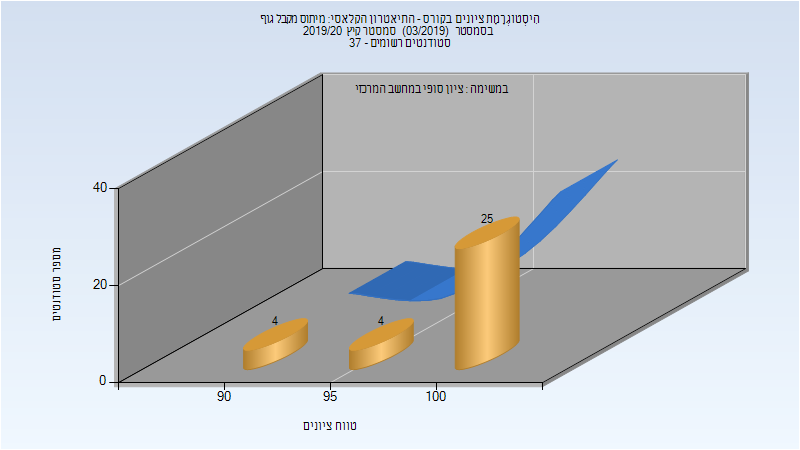
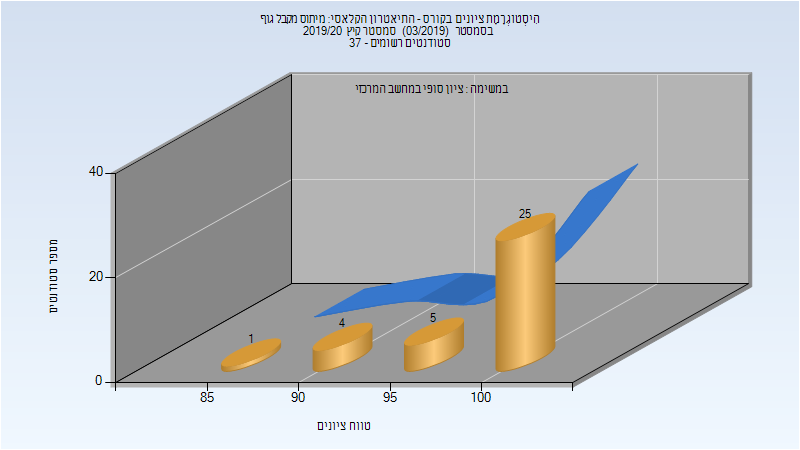
Deploy michael-maltsev/technion-histograms to github.com/michael-maltsev/technion-histograms.git:gh-pages

diff --git a/324524/index.html b/324524/index.html
@@ -284,11 +284,11 @@
 <td>מרצה - אחראי מקצוע</td>
 </tr>
 <tr>
-<td>הראל אילנה</td>
+<td>בן ענת רוחמה</td>
 <td>סגל מנהלי - עם הרשאות מרצה אחראי</td>
 </tr>
 <tr>
-<td>בן ענת רוחמה</td>
+<td>איסמן ליסה</td>
 <td>סגל מנהלי - עם הרשאות מרצה אחראי</td>
 </tr>
 <tr>
@@ -296,7 +296,7 @@
 <td>סגל מנהלי - עם הרשאות מרצה אחראי</td>
 </tr>
 <tr>
-<td>איסמן ליסה</td>
+<td>הראל אילנה</td>
 <td>סגל מנהלי - עם הרשאות מרצה אחראי</td>
 </tr>
 </tbody>
@@ -343,12 +343,12 @@
 </thead>
 <tbody>
 <tr>
-<td>33</td>
-<td>33/0</td>
+<td>35</td>
+<td>35/0</td>
 <td>100</td>
-<td>90</td>
+<td>85</td>
 <td>100</td>
-<td>98.697</td>
+<td>98.2</td>
 <td>100</td>
 </tr>
 </tbody>

diff --git a/096250/index.html b/096250/index.html
@@ -148,11 +148,11 @@
 <td>מתרגל - עם הרשאות מרצה אחראי</td>
 </tr>
 <tr>
-<td>אגסי זיוה</td>
+<td>זיו דוד מורן</td>
 <td>סגל מנהלי - עם הרשאות מרצה אחראי</td>
 </tr>
 <tr>
-<td>זיו דוד מורן</td>
+<td>אגסי זיוה</td>
 <td>סגל מנהלי - עם הרשאות מרצה אחראי</td>
 </tr>
 </tbody>

diff --git a/096327/index.html b/096327/index.html
@@ -207,11 +207,11 @@
 <td>מתרגל - עם הרשאות מרצה אחראי</td>
 </tr>
 <tr>
-<td>אגסי זיוה</td>
+<td>זיו דוד מורן</td>
 <td>סגל מנהלי - עם הרשאות מרצה אחראי</td>
 </tr>
 <tr>
-<td>זיו דוד מורן</td>
+<td>אגסי זיוה</td>
 <td>סגל מנהלי - עם הרשאות מרצה אחראי</td>
 </tr>
 </tbody>

diff --git a/096275/index.html b/096275/index.html
@@ -114,11 +114,11 @@
 <td>מרצה</td>
 </tr>
 <tr>
-<td>לוטרמן תרצה</td>
+<td>גוטמן רום</td>
 <td>מתרגל - עם הרשאות מרצה אחראי</td>
 </tr>
 <tr>
-<td>גוטמן רום</td>
+<td>לוטרמן תרצה</td>
 <td>מתרגל - עם הרשאות מרצה אחראי</td>
 </tr>
 <tr>

diff --git a/324524/README.md b/324524/README.md
@@ -83,10 +83,10 @@
 | איש סגל | תפקיד |
 | ---- | ---- |
 | מעין ארז | מרצה - אחראי מקצוע |
-| הראל אילנה | סגל מנהלי - עם הרשאות מרצה אחראי |
 | בן ענת רוחמה | סגל מנהלי - עם הרשאות מרצה אחראי |
-| בורנשטיין יעל | סגל מנהלי - עם הרשאות מרצה אחראי |
 | איסמן ליסה | סגל מנהלי - עם הרשאות מרצה אחראי |
+| בורנשטיין יעל | סגל מנהלי - עם הרשאות מרצה אחראי |
+| הראל אילנה | סגל מנהלי - עם הרשאות מרצה אחראי |
 
 ### סופי מועד א'
 
@@ -102,5 +102,5 @@
 
 | סטודנטים | עברו/נכשלו | אחוז עוברים | ציון מינימלי | ציון מקסימלי | ממוצע | חציון |
 | ---- | ---- | ---- | ---- | ---- | ---- | ---- |
-| 33 | 33/0 | 100 | 90 | 100 | 98.697 | 100 |
+| 35 | 35/0 | 100 | 85 | 100 | 98.2 | 100 |
 

diff --git a/096250/README.md b/096250/README.md
@@ -40,8 +40,8 @@
 | קרן אייל | מתרגל - עם הרשאות מרצה אחראי |
 | הרלב נגה | מתרגל - עם הרשאות מרצה אחראי |
 | גיל יובל | מתרגל - עם הרשאות מרצה אחראי |
-| אגסי זיוה | סגל מנהלי - עם הרשאות מרצה אחראי |
 | זיו דוד מורן | סגל מנהלי - עם הרשאות מרצה אחראי |
+| אגסי זיוה | סגל מנהלי - עם הרשאות מרצה אחראי |
 
 ### סופי מועד א'
 

diff --git a/096275/README.md b/096275/README.md
@@ -30,8 +30,8 @@
 | איש סגל | תפקיד |
 | ---- | ---- |
 | אקרמן רקפת | מרצה |
-| לוטרמן תרצה | מתרגל - עם הרשאות מרצה אחראי |
 | גוטמן רום | מתרגל - עם הרשאות מרצה אחראי |
+| לוטרמן תרצה | מתרגל - עם הרשאות מרצה אחראי |
 | זיו דוד מורן | סגל מנהלי - עם הרשאות מרצה אחראי |
 | אגסי זיוה | סגל מנהלי - עם הרשאות מרצה אחראי |
 

diff --git a/096327/README.md b/096327/README.md
@@ -60,8 +60,8 @@
 | ---- | ---- |
 | סבאח שהם | מרצה - אחראי מקצוע |
 | גור אייל | מתרגל - עם הרשאות מרצה אחראי |
-| אגסי זיוה | סגל מנהלי - עם הרשאות מרצה אחראי |
 | זיו דוד מורן | סגל מנהלי - עם הרשאות מרצה אחראי |
+| אגסי זיוה | סגל מנהלי - עם הרשאות מרצה אחראי |
 
 ### סופי מועד א'
 
